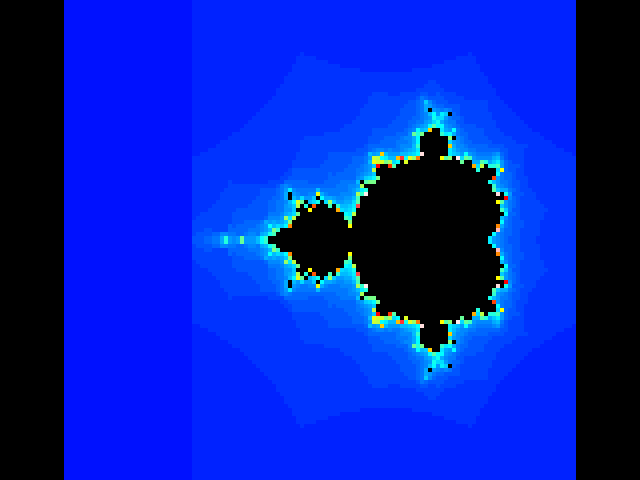
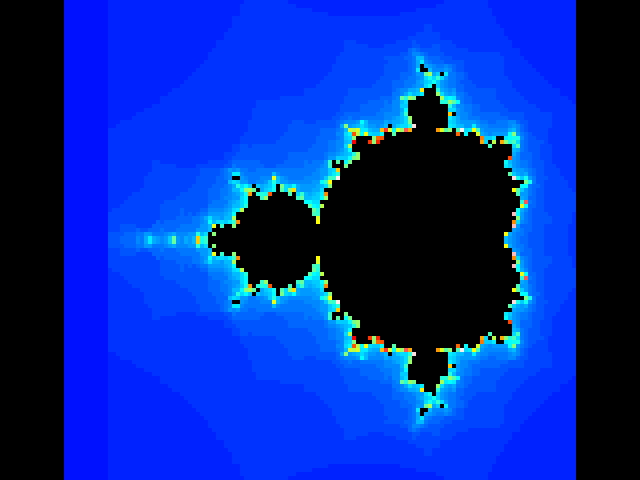
@ The blue band was the framing: a 1.5-unit step, not 2
A step of two Q6 units over 128 columns forces a view exactly 4.0 wide,
and the set is 2.25 across -- so a quarter of the picture sat outside
it, every point escaping on the first iteration, one flat blue band down
the left. Not a rendering fault; the view was simply too wide, and I
chose that width because two units divides evenly.

`I*3/2` is integer as well, and steps 1,2,1,2 -- 1.5 on average. That
gives 2.97 across by 2.81 down against a 512x480 display area, which is
the set and very little else, correctly proportioned.

It samples finer as a side effect, so more escape counts actually occur
and the colour count went from 45 to 50.

The black bands left and right stay: mode 6 is 256 pixels doubled to 512
of a 640-wide screen, so 64 either side is the mode, not the demo.

Gates: 19 suites, check 7.
@

diff --git a/docs/14-demos.md b/docs/14-demos.md
@@ -252,6 +252,14 @@ contour bands in the picture are those rectangles.
 pass: the value is already in hand, so the mirror costs four more
 `POKE`s and saves reading 30,720 bytes back.
 
+**The step is 1.5 units, not 2, and that is the framing.** Two units
+over 128 columns forces a view exactly 4.0 wide; the set is 2.25 across,
+so a quarter of the picture sat outside it, escaping on the first
+iteration as one flat band of colour. `I*3/2` is still integer and steps
+1,2,1,2 — 1.5 on average — which gives 2.97 across by 2.81 down: the set
+and very little else. It also samples finer, so more escape counts occur
+and the colour count rose from 45 to 50.
+
 **Why it is not 256 colours.** The distinct colour count is bounded by
 the iteration cap, not by the palette: 64 iterations can produce at most
 64 values. Raising the cap to 128 gained one — this view simply does not
